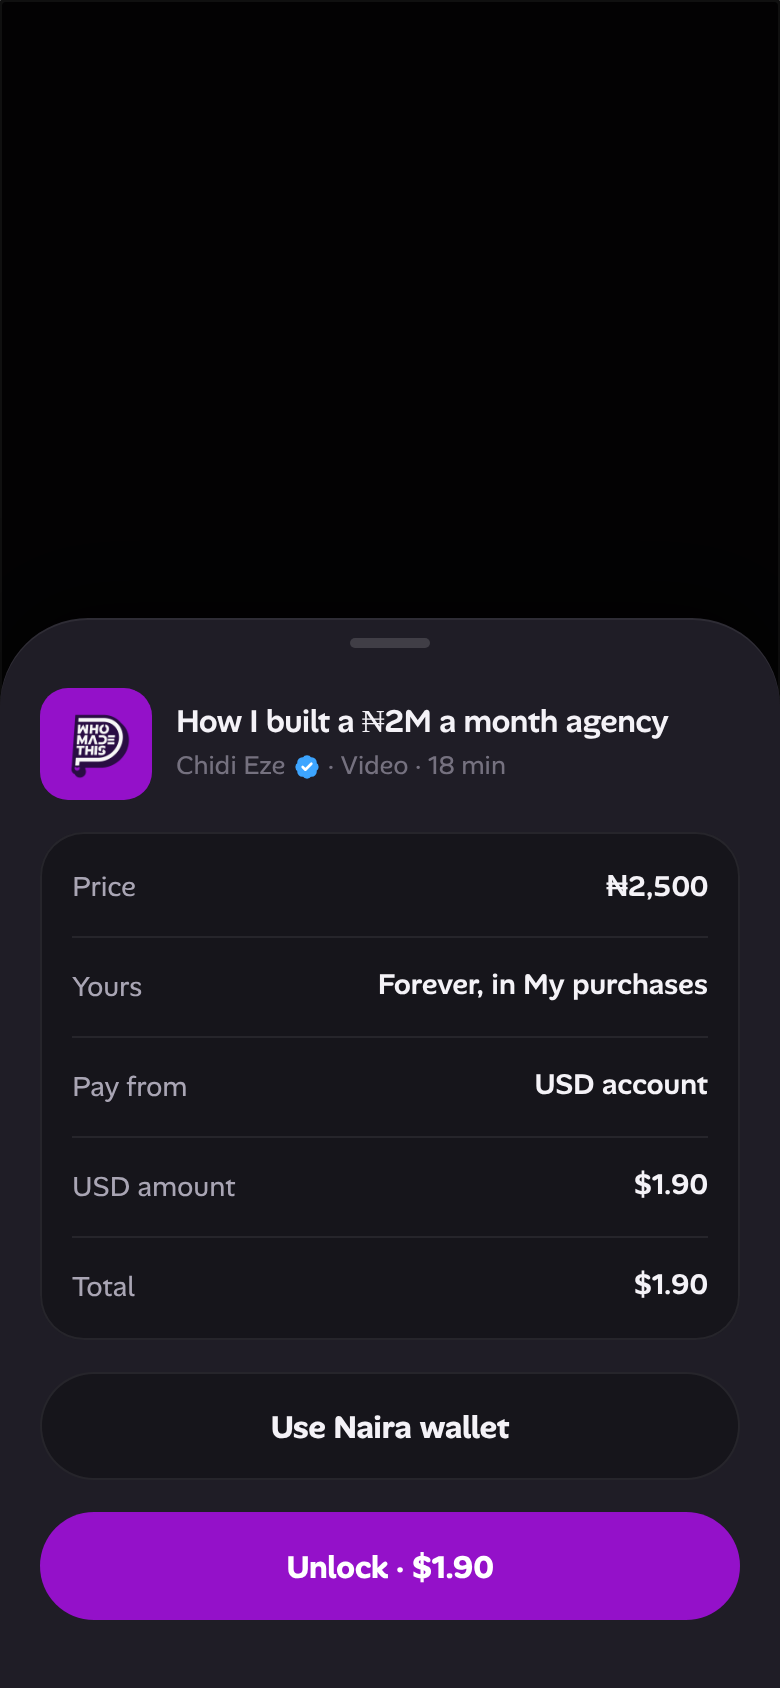
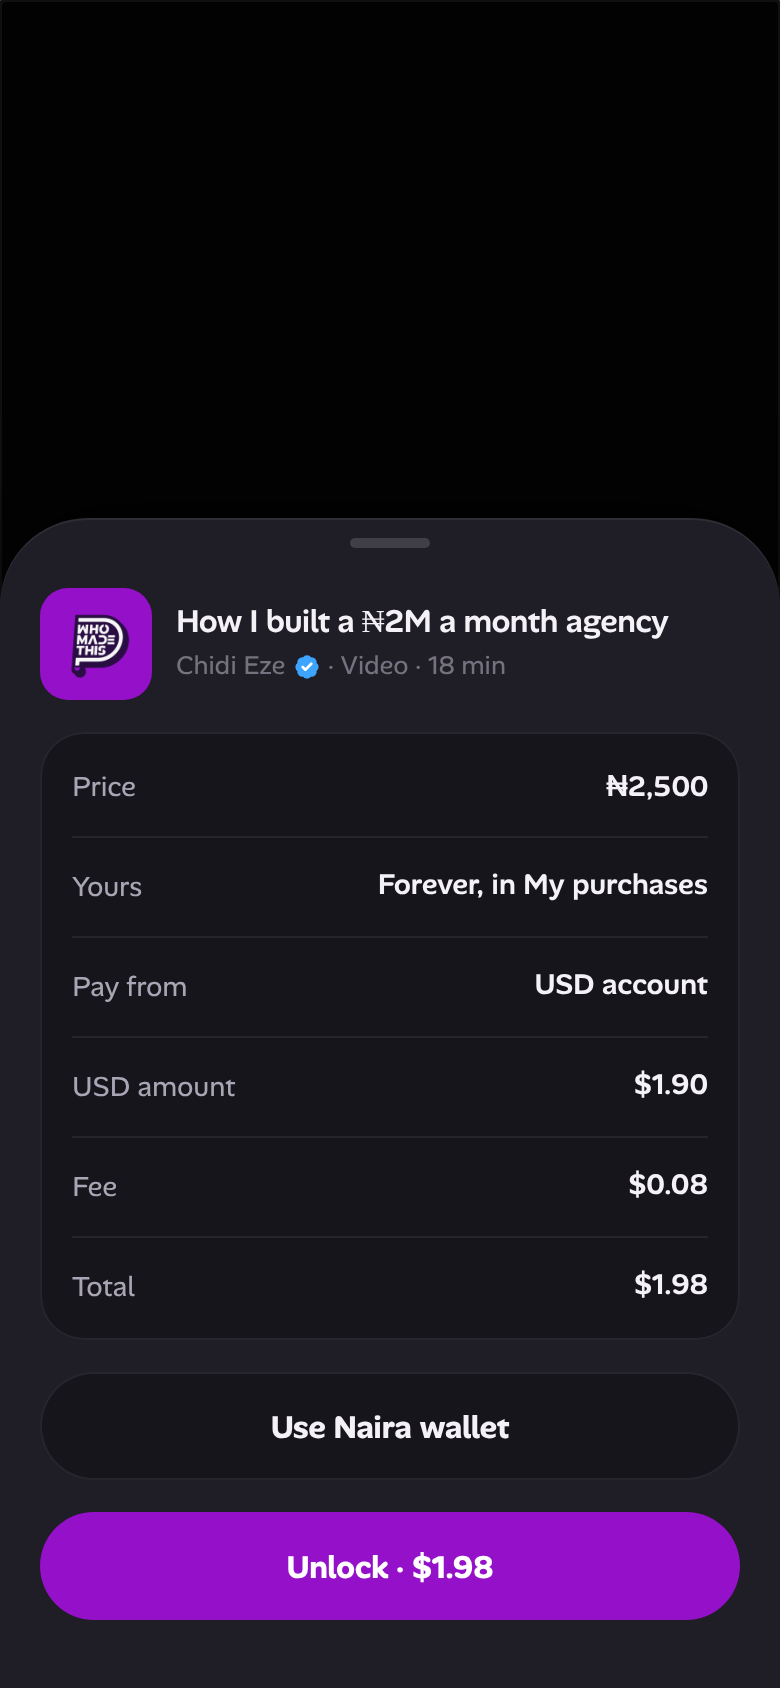
FEE-03 round 2: the from-a-dollar sheet draws the quote's own fields (Hub 263ecd12), fallback kept
Claude-Session: https://claude.ai/code/session_01YVWyVbutb6jEWsPXBkYeY9

diff --git a/src/components/pay-sheet/PaySheet.tsx b/src/components/pay-sheet/PaySheet.tsx
@@ -94,6 +94,11 @@ export type PaySource = {
   /** The provider's charge and WAWU's conversion fee, each in the smallest unit; zero is not drawn. */
   providerFeeMinor: number;
   wawuFeeMinor: number;
+  /**
+   * The quote's own Fee, VAT, Total and what the account is charged (R-139), in this currency, when the Hub says them. Drawn as one Fee
+   * (VAT only when on) and its Total; without it the rows are the earlier ones (Bank charge, Conversion fee).
+   */
+  quoted?: { feeMinor: number; vatMinor: number; vatOn: boolean; totalMinor: number };
   /** The account's available balance; null when the Hub could not read it. */
   availableMinor: number | null;
   /** The quote ran out or was used: Pay is held back and `onRefresh` gets a new one (`quote_changed`). */
@@ -292,7 +297,8 @@ export function formatSource(minor: number, decimals: number, currency: string):
 }
 
 /** What leaves the buyer's account: the firm amount and its fees, in the smallest unit. */
-export function sourceTotalMinor(s: Pick<PaySource, 'amountMinor' | 'providerFeeMinor' | 'wawuFeeMinor'>): number {
+export function sourceTotalMinor(s: Pick<PaySource, 'amountMinor' | 'providerFeeMinor' | 'wawuFeeMinor' | 'quoted'>): number {
+  if (s.quoted) return s.quoted.totalMinor;
   return s.amountMinor + s.providerFeeMinor + s.wawuFeeMinor;
 }
 
@@ -355,10 +361,16 @@ export function sourceRows(s: PaySource): ReactElement[] {
   return [
     <KeyValueRow key="from" label="Pay from" value={s.accountName} testID="source-from" />,
     <KeyValueRow key="amount" label={`${s.currency} amount`} value={fmt(s.amountMinor)} testID="source-amount" />,
-    // The pay-from-a-dollar-account quote (`PaymentSourceView`) carries no `feeMinor`, `vatMinor` or `totalMinor` yet (FEE-01 is adding them),
-    // so it is drawn as before R-139. It moves to those fields, as the other sheets have, once the contract has them.
-    ...(s.providerFeeMinor > 0 ? [<KeyValueRow key="pfee" label="Bank charge" value={fmt(s.providerFeeMinor)} />] : []),
-    ...(s.wawuFeeMinor > 0 ? [<KeyValueRow key="wfee" label="Conversion fee" value={fmt(s.wawuFeeMinor)} />] : []),
+    // R-139: the quote's one Fee (the Hub folds the provider's charge into it) and VAT when on. A quote that does not say them is drawn as before.
+    ...(s.quoted
+      ? [
+          <KeyValueRow key="fee" label="Fee" value={fmt(s.quoted.feeMinor)} testID="source-fee" />,
+          ...(s.quoted.vatOn ? [<KeyValueRow key="vat" label="VAT" value={fmt(s.quoted.vatMinor)} testID="source-vat" />] : []),
+        ]
+      : [
+          ...(s.providerFeeMinor > 0 ? [<KeyValueRow key="pfee" label="Bank charge" value={fmt(s.providerFeeMinor)} />] : []),
+          ...(s.wawuFeeMinor > 0 ? [<KeyValueRow key="wfee" label="Conversion fee" value={fmt(s.wawuFeeMinor)} />] : []),
+        ]),
     <KeyValueRow key="total" label="Total" value={fmt(sourceTotalMinor(s))} testID="source-total" />,
   ];
 }

diff --git a/src/components/pay-sheet/__tests__/PaySheet.test.tsx b/src/components/pay-sheet/__tests__/PaySheet.test.tsx
@@ -446,6 +446,17 @@ describe('R2-SOCIAL 2: the fee is its parts then the Total, never "No fee" (BRIE
       expect(screen.getByRole('button', { name: 'Pay ₦7,516.13' })).toBeTruthy();
     });
 
+    it('R-139: with the quote’s own fields the sheet draws one Fee, VAT only when on, and the quote’s Total, never a Bank charge', async () => {
+      const quoted = { feeMinor: 7, vatMinor: 1, vatOn: true, totalMinor: 38 };
+      const p = props({ amountKobo: 30000, fees: [], source: source({ providerFeeMinor: 0, wawuFeeMinor: 7, quoted }) });
+      await render(<PaySheet {...p} />);
+      expect(screen.getByTestId('source-fee')).toBeTruthy();
+      expect(screen.getByTestId('source-vat')).toBeTruthy();
+      expect(screen.queryByText('Bank charge')).toBeNull();
+      expect(screen.queryByText('Conversion fee')).toBeNull();
+      expect(screen.getByRole('button', { name: 'Unlock · $0.38' })).toBeTruthy();
+    });
+
     it('a quote that ran out holds Pay back and asks for a new one', async () => {
       const refresh = jest.fn();
       const p = props({ amountKobo: 30000, fees: [], source: source({ expired: true, onRefresh: refresh }) });

diff --git a/src/features/pay-source/usePaySource.ts b/src/features/pay-source/usePaySource.ts
@@ -1,4 +1,5 @@
 import { useQuery } from '@tanstack/react-query';
+import { hasQuotedFee } from '@/features/send/quotedFee';
 import { useEffect, useMemo, useRef, useState } from 'react';
 
 import {
@@ -121,6 +122,10 @@ export function usePaySource(args: {
     amountMinor: source.amountMinor,
     providerFeeMinor: source.providerFeeMinor,
     wawuFeeMinor: source.wawuFeeMinor,
+    // The quote's own six fields are in this account's currency while it pays (the Hub's `foreignFields`).
+    ...(payment && hasQuotedFee(payment) && payment.currency === source.currency
+      ? { quoted: { feeMinor: payment.feeMinor, vatMinor: payment.vatMinor, vatOn: payment.vatOn, totalMinor: payment.totalMinor } }
+      : {}),
     availableMinor: source.availableMinor,
     expired,
     choices,

diff --git a/src/app/preview/pay-sheet.tsx b/src/app/preview/pay-sheet.tsx
@@ -62,7 +62,8 @@ const cases: Record<string, Omit<PaySheetProps, 'onPay' | 'onCancel'>> = {
       decimals: 2,
       amountMinor: 190,
       providerFeeMinor: 0,
-      wawuFeeMinor: 0,
+      wawuFeeMinor: 8,
+      quoted: { feeMinor: 8, vatMinor: 0, vatOn: false, totalMinor: 198 },
       availableMinor: 12050,
       choices: [
         { id: 'NGN', label: 'Naira wallet', selected: false },

diff --git a/tasks/history/FEE-03.md b/tasks/history/FEE-03.md
@@ -110,3 +110,10 @@ Fix round 2 (builder, Sonnet, 11 Nov 2026) on `origin/wmt/FEE-03-verify` `85ceea
 **Pictures (F8)**, 390 px, light and dark, from this round's code, in `audits/FEE-03/round2/` (artboards W17, W10, W15, H14 stay in `audits/FEE-03/artboards/`; the stale round 0 and round 1 pictures are removed). Stand-in Hub (never the live Hub): `withdraw`, `withdraw-pin` (PIN sheet over Withdraw), `withdraw-receipt`, `withdraw-vat`, `withdraw-refused`, `withdraw-fallback` (a Fintava-shaped quote: Bank charge, WAWU's fee, Fees), `send-review`, `send-pin` (PIN sheet over Send), `send-receipt`, `send-review-vat`, `send-review-fallback`, `crypto-send`, `crypto-send-review`, `card-issue`, `add-money`, `abroad-review`, `abroad-receipt`, `tip` and `tip-vat` (the real Tip sheet), `pay-sheet`, `pay-sheet-send`, `pay-sheet-send-vat`, `pay-sheet-from-usd` (from-a-dollar sheet). Every one was opened and looked at.
 
 **Pictures added after the first push of round 2** (same folder, light and dark, each opened and looked at): `ticket` (event sheet), `ask` (Ask sheet), `request-pay`, `chat-send`, `school` (Enroll sheet), `legal-fixed`, `legal-matter` (Pay and start), `web-buy` (points buy, web wallet). They were taken by running the test doubles unchanged behind HTTP (legalHub, the chat double, and the school, ticket, ask and web-wallet doubles cut out of their jest files) so the real screens answered with the quote fields. A real Android phone; the live Hub; a Fintava-mode Hub run end to end. Not photographed: the Unlock sheet on its own (its feed screen needs a feed; the pay sheet pictures and its jest flows cover it).
+
+### Fix round 2, step 2 (Hub `wmt/FEE-01` head `263ecd12`)
+
+- Contract regenerated from `263ecd12`: the generated types do not change from `e5474cbe` (the Hub's pay-fx fields ride on the existing `PaymentQuoteView` fields: under the engine `feeMinor`, `vatMinor`, `vatOn`, `totalMinor`, `receiveMinor` and `currency` are in the SOURCE currency while a payment is made from a foreign account, and `source.providerFeeMinor` is folded to 0).
+- **F3 now on the quote's fields:** `PaySource` gained an optional `quoted` (set by `usePaySource` from the payment quote when it says the whole set in the source's currency). The from-a-dollar sheet draws one Fee, VAT when on, and the quote's `totalMinor` (button and PIN line too). Without `quoted` it keeps the earlier rows (Bank charge, Conversion fee), so a Hub on Fintava is not a dead end. Spec in `PaySheet.test.tsx`; picture `pay-sheet-from-usd` retaken ($1.90 + Fee $0.08 = $1.98).
+- Next: when the lead names the final Hub head, regenerate once more if `git diff 263ecd12..<final> -- contract/openapi.json` shows a change.
+
